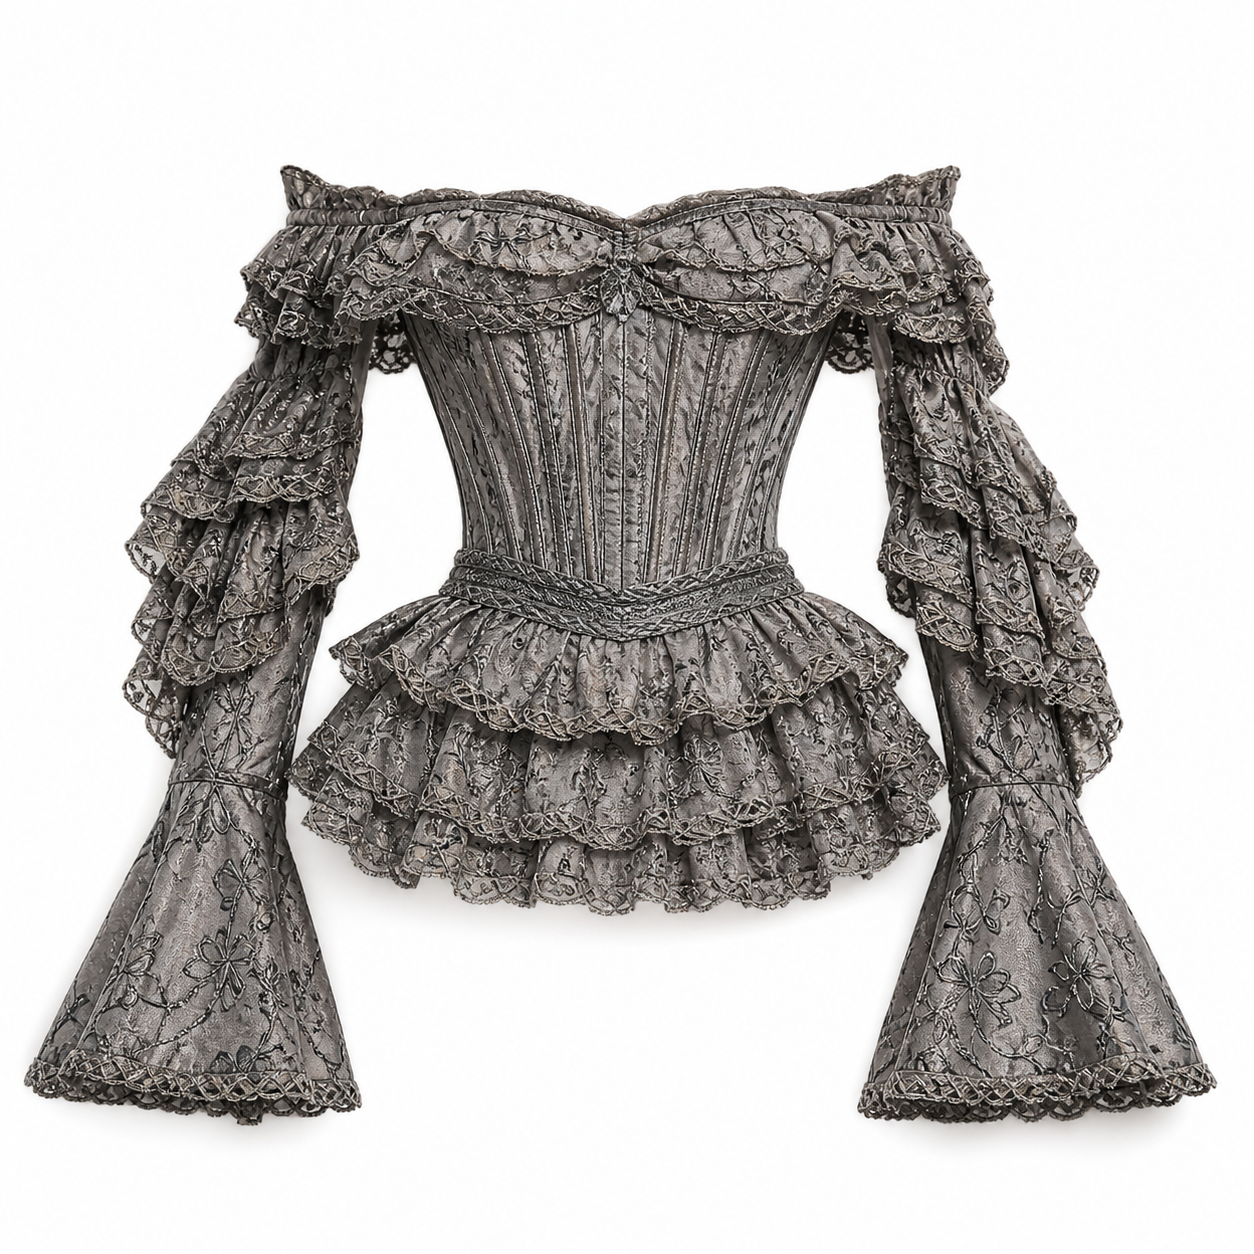
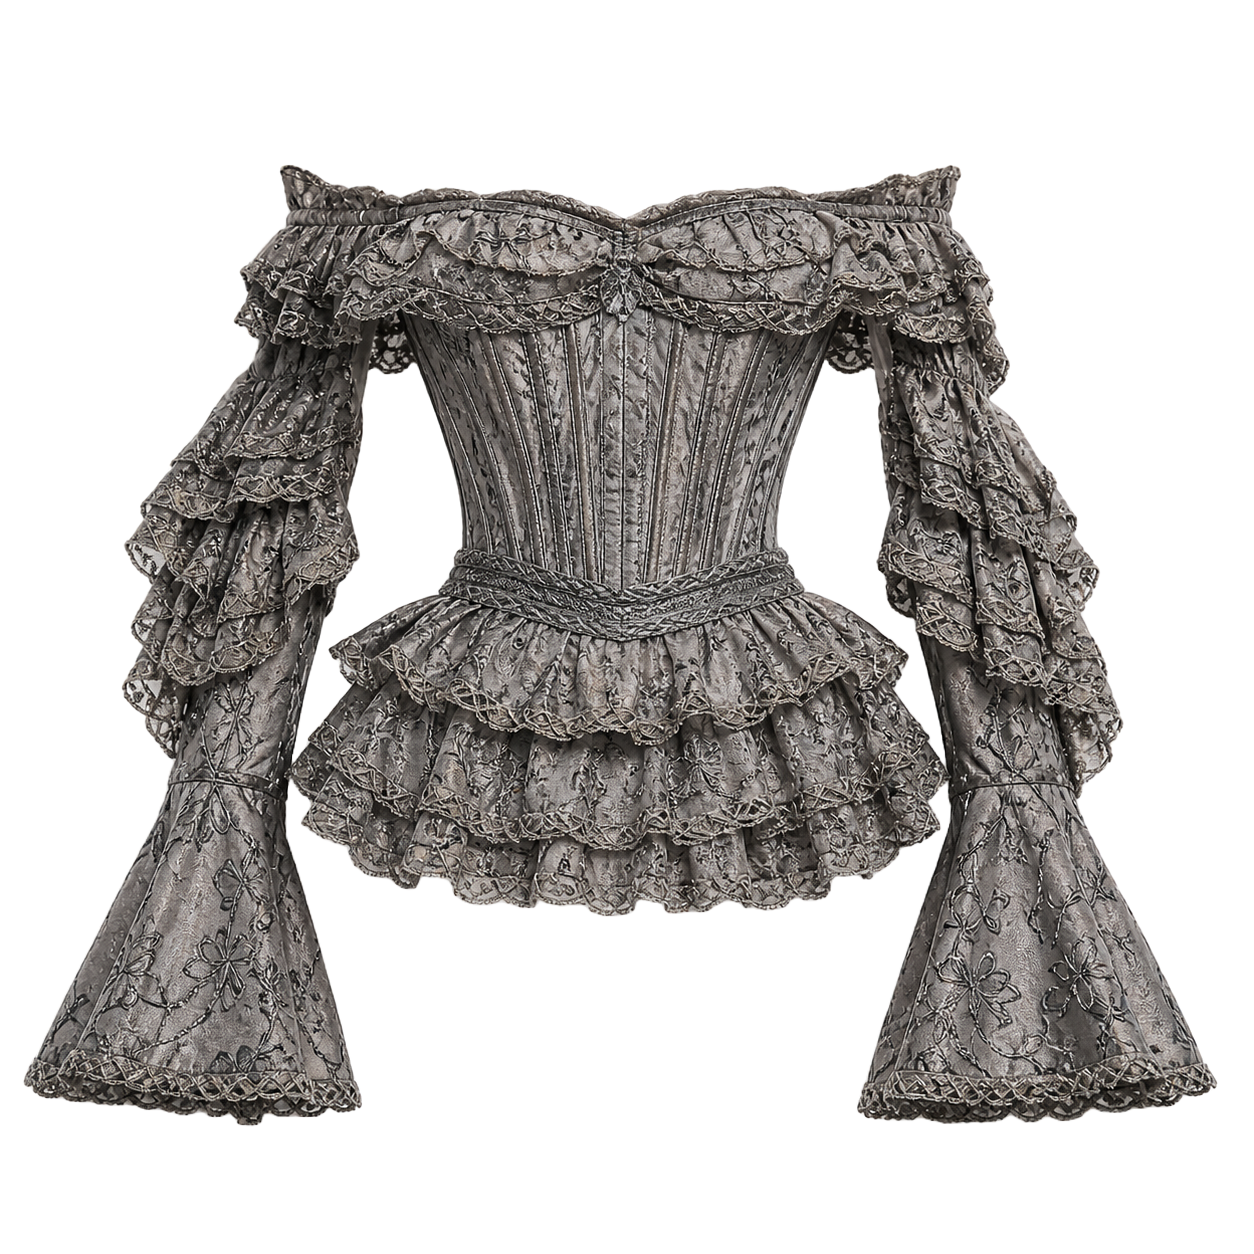
Add files via upload

diff --git a/index.html b/index.html
@@ -195,6 +195,50 @@
       object-fit: contain;
       display: block;
       padding: 42px;
+      opacity: 1;
+      transform: translateX(0) scale(1);
+      transition: opacity 0.38s ease, transform 0.38s ease;
+      will-change: opacity, transform;
+    }
+
+    .main-image-area img.is-changing-next {
+      opacity: 0;
+      transform: translateX(-18px) scale(0.985);
+    }
+
+    .main-image-area img.is-changing-prev {
+      opacity: 0;
+      transform: translateX(18px) scale(0.985);
+    }
+
+    .main-image-area img.is-entering-next {
+      animation: imageEnterNext 0.42s ease both;
+    }
+
+    .main-image-area img.is-entering-prev {
+      animation: imageEnterPrev 0.42s ease both;
+    }
+
+    @keyframes imageEnterNext {
+      from {
+        opacity: 0;
+        transform: translateX(18px) scale(0.985);
+      }
+      to {
+        opacity: 1;
+        transform: translateX(0) scale(1);
+      }
+    }
+
+    @keyframes imageEnterPrev {
+      from {
+        opacity: 0;
+        transform: translateX(-18px) scale(0.985);
+      }
+      to {
+        opacity: 1;
+        transform: translateX(0) scale(1);
+      }
     }
 
     .gallery-nav {
@@ -306,9 +350,8 @@
       border: 1px solid rgba(0,0,0,0.12);
     }
 
-    .swatch-black span { background: #0c0c0c; }
-    .swatch-gray span { background: #b8b8b8; }
-    .swatch-cream span { background: #e8e3dc; }
+    .swatch-gray span { background: #8c847d; }
+    .swatch-beige span { background: #d9c3a3; }
 
     .size-row {
       display: flex;
@@ -634,7 +677,7 @@
       </div>
 
       <a class="brand" href="#" aria-label="LIUTIK home">
-        <img class="brand-logo" src="logo.png" alt="liutik" />
+        <img class="brand-logo" src="logo.PNG" alt="liutik" />
       </a>
 
       <div class="header-right">
@@ -706,11 +749,10 @@
         <p class="status">Coming soon</p>
 
         <div class="option-block">
-          Color: <strong>concept</strong>
-          <div class="swatches" aria-label="Concept color options">
-            <button class="swatch swatch-black" aria-label="Black concept"><span></span></button>
-            <button class="swatch swatch-gray" aria-label="Grey concept"><span></span></button>
-            <button class="swatch swatch-cream" aria-label="Custom concept"><span></span></button>
+          Color: <strong>grey / beige</strong>
+          <div class="swatches" aria-label="Garment color options">
+            <button class="swatch swatch-gray" aria-label="Grey"><span></span></button>
+            <button class="swatch swatch-beige" aria-label="Beige"><span></span></button>
           </div>
         </div>
 
@@ -800,16 +842,20 @@
   <script>
     /*
       Файлы должны лежать в одной папке с этим HTML:
+      - logo.PNG
       - coat.png
       - pants.png
+      - pose1.png
+      - pose2.png
+      - pose3.png
     */
 
     const productImages = [
       'coat.png',
       'pants.png',
-      'pos1.png',
-      'pos2.png',
-      'pos3.png'
+      'pose1.png',
+      'pose2.png',
+      'pose3.png'
     ];
 
     const mainImage = document.getElementById('mainImage');
@@ -835,31 +881,41 @@
 
         button.appendChild(image);
         button.addEventListener('click', () => {
-          activeIndex = index;
-          updateMainImage();
-          renderGallery();
+          const direction = index > activeIndex ? 'next' : 'prev';
+          showImage(index, direction);
         });
 
         thumbs.appendChild(button);
       });
     }
 
-    function updateMainImage() {
+    function updateMainImage(direction = 'next') {
       mainImage.src = productImages[activeIndex];
+      mainImage.classList.remove('is-changing-next', 'is-changing-prev', 'is-entering-next', 'is-entering-prev');
+      void mainImage.offsetWidth;
+      mainImage.classList.add(direction === 'prev' ? 'is-entering-prev' : 'is-entering-next');
     }
 
-    function showImage(index) {
-      activeIndex = (index + productImages.length) % productImages.length;
-      updateMainImage();
-      renderGallery();
+    function showImage(index, direction = 'next') {
+      if (index === activeIndex) return;
+
+      const exitClass = direction === 'prev' ? 'is-changing-prev' : 'is-changing-next';
+      mainImage.classList.remove('is-entering-next', 'is-entering-prev');
+      mainImage.classList.add(exitClass);
+
+      setTimeout(() => {
+        activeIndex = (index + productImages.length) % productImages.length;
+        updateMainImage(direction);
+        renderGallery();
+      }, 180);
     }
 
     function nextImage() {
-      showImage(activeIndex + 1);
+      showImage(activeIndex + 1, 'next');
     }
 
     function prevImage() {
-      showImage(activeIndex - 1);
+      showImage(activeIndex - 1, 'prev');
     }
 
     prevButton.addEventListener('click', prevImage);
